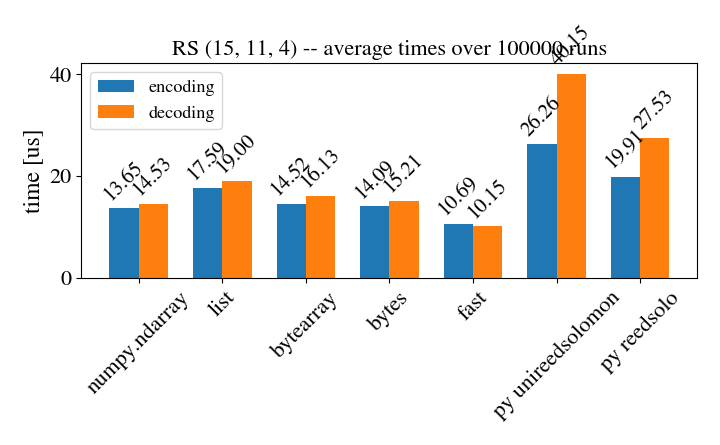
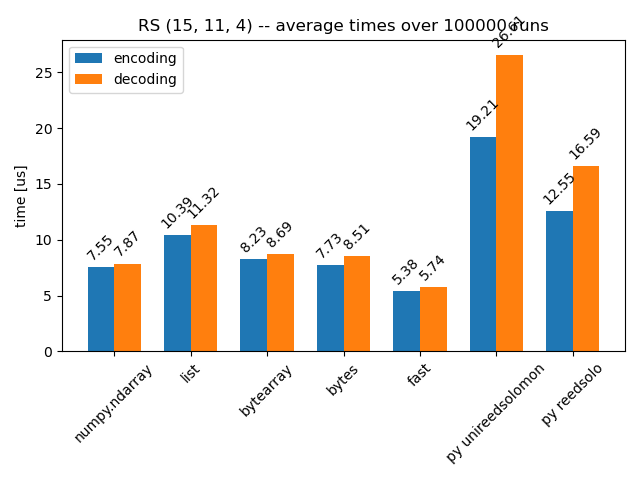
removed padding on output of short input sequences. Throw more detailed error when librs.so not found. Benchmark naming updated

Changed region(s): [[0.0, 0.0292, 0.9688, 0.964], [0.7188, 0.2045, 0.7812, 0.3506]]

diff --git a/test/bench.py b/test/bench.py
@@ -2,8 +2,8 @@
 #   Creation date    : Wed Jan 20 18:06:12 2021 (+1100)
 #   Email            : edwin.g.w.petersatgmail.com
 # ------------------------------------------------------------------------------
-# Last-Updated       : Fri Jan 29 16:21:52 2021 (+1100)
-#           By       : Edwin G. W. Peters @ epeters
+# Last-Updated       : Fri Jan 29 19:55:30 2021 (+1100)
+#           By       : Edwin G.W. Peters @ mugpahug-pc
 # ------------------------------------------------------------------------------
 # File Name          : bench.py
 # Description        : 
@@ -92,8 +92,9 @@ for rs_p in rs_params:
     dtypes = [np.ndarray, list,bytearray, bytes]
 
 
-    print(f'RS ({total_len}, {msg_len}, {sym_size}) -- encoding and decoding {N_TESTS} runs')
+    print(f'RS ({total_len}, {msg_len}, {sym_size}) -- encoding and decoding {N_TESTS} runs\n')
 
+    print('| test name | encoding | decoding | num errors|\n| :------- | -------: | ------: | :----: |')
 
     for dtype in dtypes:
         # bench:
@@ -132,7 +133,8 @@ for rs_p in rs_params:
         test_names.append(str(dtype)[8:-2])
         encoding_times.append((t_e1-t_b1)/N_TESTS*1000000)
         decoding_times.append((t_e2-t_b2)/N_TESTS*1000000)
-        print(f'dtype {str(dtype)[8:-2]:15} -- encoding time {t_e1-t_b1:.3f} s {(t_e1-t_b1)/N_TESTS*1000:.3f} ms each - decoding time {t_e2-t_b2:.3f} s {(t_e2-t_b2)/N_TESTS*1000:.3f} ms each - num_errors: {np.sum(n_errors<0)}')
+        print(f'| pyreedsolomon {str(dtype)[8:-2]:15} | {t_e1-t_b1:.3f} s {(t_e1-t_b1)/N_TESTS*1000:.3f} ms each | {t_e2-t_b2:.3f} s {(t_e2-t_b2)/N_TESTS*1000:.3f} ms each | {np.sum(n_errors<0)} |')
+        # print(f'dtype {str(dtype)[8:-2]:15} -- encoding time {t_e1-t_b1:.3f} s {(t_e1-t_b1)/N_TESTS*1000:.3f} ms each - decoding time {t_e2-t_b2:.3f} s {(t_e2-t_b2)/N_TESTS*1000:.3f} ms each - num_errors: {np.sum(n_errors<0)}')
 
     # np.random.seed(seed)
     data = [np.concatenate((np.zeros(padding_symbols),np.random.randint(0,16,total_len-padding_symbols))).astype(data_dtype) for n in range(N_TESTS)]
@@ -158,7 +160,8 @@ for rs_p in rs_params:
     encoding_times.append((t_e1-t_b1)/N_TESTS*1000000)
     decoding_times.append((t_e2-t_b2)/N_TESTS*1000000)
 
-    print(f'{"fast":21} -- encoding time {t_e1-t_b1:.3f} s {(t_e1-t_b1)/N_TESTS*1000:.3f} ms each - decoding time {t_e2-t_b2:.3f} s {(t_e2-t_b2)/N_TESTS*1000:.3f} ms each - num_errors: {np.sum(n_errors2<0)}')
+    print(f'| {"pyreedsolomon fast":29} | {t_e1-t_b1:.3f} s {(t_e1-t_b1)/N_TESTS*1000:.3f} ms each | {t_e2-t_b2:.3f} s {(t_e2-t_b2)/N_TESTS*1000:.3f} ms each | {np.sum(n_errors2<0)} |')
+    # print(f'{"fast":21} -- encoding time {t_e1-t_b1:.3f} s {(t_e1-t_b1)/N_TESTS*1000:.3f} ms each - decoding time {t_e2-t_b2:.3f} s {(t_e2-t_b2)/N_TESTS*1000:.3f} ms each - num_errors: {np.sum(n_errors2<0)}')
 
 
 
@@ -197,8 +200,9 @@ for rs_p in rs_params:
         encoding_times.append((t_pe1-t_pb1)/N_TESTS*1000000)
         decoding_times.append((t_pe2-t_pb2)/N_TESTS*1000000)
 
+        print(f'| {"py unireedsolomon":29} | {t_pe1-t_pb1:.3f} s {(t_pe1-t_pb1)/N_TESTS*1000:.3f} ms each | {t_pe2-t_pb2:.3f} s {(t_pe2-t_pb2)/N_TESTS*1000:.3f} ms each | {np.sum(n_errors_py<0)} |')
 
-        print(f'{"py unireedsolomon":21} -- encoding time {t_pe1-t_pb1:.3f} s {(t_pe1-t_pb1)/N_TESTS*1000:.3f} ms each - decoding time {t_pe2-t_pe1:.3f} s {(t_pe2-t_pe1)/N_TESTS*1000:.3f} ms each - num_errors: {np.sum(n_errors_py!=0)}')
+        # print(f'{"py unireedsolomon":21} -- encoding time {t_pe1-t_pb1:.3f} s {(t_pe1-t_pb1)/N_TESTS*1000:.3f} ms each - decoding time {t_pe2-t_pe1:.3f} s {(t_pe2-t_pe1)/N_TESTS*1000:.3f} ms each - num_errors: {np.sum(n_errors_py!=0)}')
 
     ## reedsolo
     if HAS_REEDSOLO and  sym_size <= 8: # only works for symbol sizes up to 8
@@ -230,7 +234,8 @@ for rs_p in rs_params:
         decoding_times.append((t_pe2-t_pb2)/N_TESTS*1000000)
 
 
-        print(f'{"py reedsolo":21} -- encoding time {t_pe1-t_pb1:.3f} s {(t_pe1-t_pb1)/N_TESTS*1000:.3f} ms each - decoding time {t_pe2-t_pe1:.3f} s {(t_pe2-t_pe1)/N_TESTS*1000:.3f} ms each - num_errors: {np.sum(n_errors_py!=0)}')
+        print(f'| {"py reedsolo":29} | {t_pe1-t_pb1:.3f} s {(t_pe1-t_pb1)/N_TESTS*1000:.3f} ms each | {t_pe2-t_pb2:.3f} s {(t_pe2-t_pb2)/N_TESTS*1000:.3f} ms each | {np.sum(n_errors_py<0)} |')
+        # print(f'{"py reedsolo":21} -- encoding time {t_pe1-t_pb1:.3f} s {(t_pe1-t_pb1)/N_TESTS*1000:.3f} ms each - decoding time {t_pe2-t_pe1:.3f} s {(t_pe2-t_pe1)/N_TESTS*1000:.3f} ms each - num_errors: {np.sum(n_errors_py!=0)}')
 
 
 

diff --git a/pyreedsolomon/pyreedsolomon.py b/pyreedsolomon/pyreedsolomon.py
@@ -2,8 +2,8 @@
 #   Creation date    : Wed Jan 20 17:15:53 2021 (+1100)
 #   Email            : edwin.g.w.petersatgmail.com
 # ------------------------------------------------------------------------------
-# Last-Updated       : Fri Jan 29 16:23:34 2021 (+1100)
-#           By       : Edwin G. W. Peters @ epeters
+# Last-Updated       : Fri Jan 29 19:35:51 2021 (+1100)
+#           By       : Edwin G.W. Peters @ mugpahug-pc
 # ------------------------------------------------------------------------------
 # File Name          : pyreedsolomon.py
 # Description        : 
@@ -24,8 +24,10 @@ configure with prefix=/usr/lib or add default prefix to LD_LIBRARY_PATH
 import ctypes
 import numpy as np
 
-lib = ctypes.cdll.LoadLibrary('librs.so')
-
+try:
+    lib = ctypes.cdll.LoadLibrary('librs.so')
+except Exception as e:
+    raise ImportError('librs.so not found in LD_LIBRARY_PATH. Is the Reed Solomon userspace module installed?') from e
 # pointers
 c_dat_p8 =  ctypes.POINTER(ctypes.c_ubyte)
 c_dat_p16 =  ctypes.POINTER(ctypes.c_ushort)
@@ -206,13 +208,13 @@ class Reed_Solomon(object):
         self.encode_fast(self.data_buf)
 
         if d_type == np.ndarray:
-            return self.data_buf
+            return self.data_buf[-n_symbols-self.par_size:]
         elif d_type == bytes:
-            return self.data_buf.tobytes()
+            return self.data_buf[-n_symbols-self.par_size:].tobytes()
         elif d_type == bytearray:
-            return bytearray(self.data_buf.tobytes())
+            return bytearray(self.data_buf[-n_symbols-self.par_size:].tobytes())
         elif d_type == list:
-            return self.data_buf.tolist()
+            return self.data_buf[-n_symbols-self.par_size:].tolist()
 
 
     def decode(self,dat):
@@ -258,10 +260,10 @@ class Reed_Solomon(object):
         self.data_buf, n_errors = self.decode_fast(self.data_buf)
 
         if d_type == np.ndarray:
-            return self.data_buf[:self.message_size], n_errors
+            return self.data_buf[self.message_size - n_symbols + self.par_size :self.message_size], n_errors
         elif d_type == bytes:
-            return self.data_buf[:self.message_size].tobytes(), n_errors
+            return self.data_buf[self.message_size - n_symbols + self.par_size:self.message_size].tobytes(), n_errors
         elif d_type == bytearray:
-            return bytearray(self.data_buf[:self.message_size].tobytes()) , n_errors
+            return bytearray(self.data_buf[self.message_size - n_symbols + self.par_size:self.message_size].tobytes()) , n_errors
         elif d_type == list:
-            return self.data_buf[:self.message_size].tolist(), n_errors
+            return self.data_buf[self.message_size - n_symbols + self.par_size:self.message_size].tolist(), n_errors

diff --git a/setup.py b/setup.py
@@ -1,0 +1,44 @@
+# Original Author    : Edwin G. W. Peters @ epeters
+#   Creation date    : Fri Jan 29 15:19:20 2021 (+1100)
+#   Email            : edwin.peters@unsw.edu.au
+# ------------------------------------------------------------------------------
+# Last-Updated       : Fri Jan 29 16:13:59 2021 (+1100)
+#           By       : Edwin G. W. Peters @ epeters
+# ------------------------------------------------------------------------------
+# File Name          : setup.py
+# Description        : 
+# ------------------------------------------------------------------------------
+# Copyright          : Insert license
+# ------------------------------------------------------------------------------
+
+
+import setuptools
+
+with open("README.md", "r") as fh:
+    long_description = fh.read()
+
+
+setuptools.setup(
+    name='pyreedsolomon',
+    version='1.0.1',
+    packages=setuptools.find_packages(),
+    url='https://github.com/mugpahug/pyreedsolomon',
+    license='GPL3',
+    author='Edwin G. W. Peters',
+    author_email='edwin.g.w.peters@gmail.com',
+    description='Fast python interface to the linux kernel reed solomon libraries',
+    long_description=long_description,
+    long_description_content_type="text/markdown",
+    classifiers=[
+        'Development Status :: 4 - Beta',
+        'Intended Audience :: Developers',
+        'Topic :: Software Development :: Libraries',
+        'License :: OSI Approved :: GNU General Public License v3 or later (GPLv3+)',
+        'Programming Language :: Python :: 3',
+        'Programming Language :: Python :: 3.5',
+    ],
+    keywords='reed solomon reed-solomon reedsolomon forward error correction',
+    install_requires=[
+        'numpy'
+    ],
+)

diff --git a/test/demo.py b/test/demo.py
@@ -2,8 +2,8 @@
 #   Creation date    : Fri Jan 29 15:28:36 2021 (+1100)
 #   Email            : edwin.g.w.petersatgmail.com
 # ------------------------------------------------------------------------------
-# Last-Updated       : Fri Jan 29 16:22:05 2021 (+1100)
-#           By       : Edwin G. W. Peters @ epeters
+# Last-Updated       : Fri Jan 29 19:40:55 2021 (+1100)
+#           By       : Edwin G.W. Peters @ mugpahug-pc
 # ------------------------------------------------------------------------------
 # File Name          : demo.py
 # Description        : 
@@ -23,7 +23,7 @@ data = np.random.randint(0,256,150).astype(np.uint8)
 data_enc = rs_dr.encode(data)
 
 # create a few errors
-err_idx = [23,53,12,97,102, 200, 250]
+err_idx = [23,53,12,97,102]
 
 
 data_enc[err_idx] = 255

diff --git a/README.md b/README.md
@@ -3,15 +3,7 @@ A high performance Python interface to the linux kernel Reed Solomon libraries
 
 ## Requirements
 Userspace interface to the kernel Reed Solomon libraries and numpy
-Source and build instructions on [https://github.com/tierney/reed-solomon](https://github.com/tierney/reed-solomon)
-
-Recommendations for building the C-libraries:
-   
-To allow for symbol sizes larger than 8 bits uncomment in *configure.ac*:
-```
-AC_DEFINE(CONFIG_REED_SOLOMON_ENC16, 1, Reed Solomon encoding word length)
-AC_DEFINE(CONFIG_REED_SOLOMON_DEC16, 1, Reed Solomon decoding word length)
-```
+Source and build instructions on [https://github.com/CyberLeo/reed-solomon](https://github.com/CyberLeo/reed-solomon)
 
 configure with --prefix=/usr/ or add the location of *librs.so* is in your library path (*LD_LIBRARY_PATH*)
 
@@ -55,28 +47,65 @@ Input data types supported:
  * bytes
  * bytearray
 
+Test run on *Intel(R) Core(TM) i7-4790 CPU @ 3.60GHz*
+
+RS (973, 935, 10) -- encoding and decoding 1000 runs
+
+| test name | encoding | decoding | num errors|
+| :------- | -------: | ------: | :----: |
+| pyreedsolomon numpy.ndarray   | 0.065 s 0.065 ms each | 0.061 s 0.061 ms each | 0 |
+| pyreedsolomon list            | 0.114 s 0.114 ms each | 0.117 s 0.117 ms each | 0 |
+| pyreedsolomon bytearray       | 0.067 s 0.067 ms each | 0.060 s 0.060 ms each | 0 |
+| pyreedsolomon bytes           | 0.063 s 0.063 ms each | 0.060 s 0.060 ms each | 0 |
+| pyreedsolomon fast            | 0.064 s 0.064 ms each | 0.056 s 0.056 ms each | 0 |
+| py unireedsolomon             | 8.828 s 8.828 ms each | 6.830 s 6.830 ms each | 0 |
+
+RS (255, 223, 8) -- encoding and decoding 10000 runs
+
+| test name | encoding | decoding | num errors|
+| :------- | -------: | ------: | :----: |
+| pyreedsolomon numpy.ndarray   | 0.189 s 0.019 ms each | 0.200 s 0.020 ms each | 0 |
+| pyreedsolomon list            | 0.339 s 0.034 ms each | 0.385 s 0.038 ms each | 0 |
+| pyreedsolomon bytearray       | 0.201 s 0.020 ms each | 0.231 s 0.023 ms each | 0 |
+| pyreedsolomon bytes           | 0.190 s 0.019 ms each | 0.225 s 0.023 ms each | 0 |
+| pyreedsolomon fast            | 0.166 s 0.017 ms each | 0.196 s 0.020 ms each | 0 |
+| py unireedsolomon             | 12.233 s 1.223 ms each | 12.556 s 1.256 ms each | 0 |
+| py reedsolo                   | 9.292 s 0.929 ms each | 16.142 s 1.614 ms each | 0 |
+
+RS (15, 11, 4) -- encoding and decoding 100000 runs
+
+| test name | encoding | decoding | num errors|
+| :------- | -------: | ------: | :----: |
+| pyreedsolomon numpy.ndarray   | 0.755 s 0.008 ms each | 0.787 s 0.008 ms each | 0 |
+| pyreedsolomon list            | 1.039 s 0.010 ms each | 1.132 s 0.011 ms each | 0 |
+| pyreedsolomon bytearray       | 0.823 s 0.008 ms each | 0.869 s 0.009 ms each | 0 |
+| pyreedsolomon bytes           | 0.773 s 0.008 ms each | 0.851 s 0.009 ms each | 0 |
+| pyreedsolomon fast            | 0.538 s 0.005 ms each | 0.574 s 0.006 ms each | 0 |
+| py unireedsolomon             | 1.921 s 0.019 ms each | 2.661 s 0.027 ms each | 0 |
+| py reedsolo                   | 1.255 s 0.013 ms each | 1.659 s 0.017 ms each | 0 |
+
 Test run on *Intel(R) Core(TM) i7-3770 CPU @ 3.40GHz*
 
 RS (973, 935, 10) -- encoding and decoding 1000 runs
 
 | test name | encoding | decoding |num errors|
 | :-------- | -------: | -------: | :------: |
-|dtype numpy.ndarray   | 0.081 s 0.081 ms each | 0.077 s 0.077 ms each | 0 | 
-|dtype list            | 0.173 s 0.173 ms each | 0.147 s 0.147 ms each | 0 |
-|dtype bytearray       | 0.082 s 0.082 ms each | 0.079 s 0.079 ms each | 0 |
-|dtype bytes           | 0.080 s 0.080 ms each | 0.078 s 0.078 ms each | 0 |
-|fast                  | 0.076 s 0.076 ms each | 0.073 s 0.073 ms each | 0 |
+|pyreedsolomon numpy.ndarray   | 0.081 s 0.081 ms each | 0.077 s 0.077 ms each | 0 | 
+|pyreedsolomon list            | 0.173 s 0.173 ms each | 0.147 s 0.147 ms each | 0 |
+|pyreedsolomon bytearray       | 0.082 s 0.082 ms each | 0.079 s 0.079 ms each | 0 |
+|pyreedsolomon bytes           | 0.080 s 0.080 ms each | 0.078 s 0.078 ms each | 0 |
+|pyreedsolomon fast                  | 0.076 s 0.076 ms each | 0.073 s 0.073 ms each | 0 |
 |py unireedsolomon     | 10.175 s 10.175 ms each | 8.111 s 8.111 ms each | 0|
 
 RS (255, 223, 8) -- encoding and decoding 10000 runs
 
 | test name | encoding | decoding |num errors|
 | :-------- | -------: | -------: | :------: |
-|dtype numpy.ndarray | 0.286 s 0.029 ms each |0.319 s 0.032 ms each   | 0|
-|dtype list          | 0.475 s 0.048 ms each |0.542 s 0.054 ms each   | 0|
-|dtype bytearray     | 0.277 s 0.028 ms each |0.356 s 0.036 ms each   | 0|
-|dtype bytes         | 0.272 s 0.027 ms each |0.328 s 0.033 ms each   | 0|
-|fast                | 0.232 s 0.023 ms each |0.280 s 0.028 ms each   | 0|
+|pyreedsolomon numpy.ndarray | 0.286 s 0.029 ms each |0.319 s 0.032 ms each   | 0|
+|pyreedsolomon list          | 0.475 s 0.048 ms each |0.542 s 0.054 ms each   | 0|
+|pyreedsolomon bytearray     | 0.277 s 0.028 ms each |0.356 s 0.036 ms each   | 0|
+|pyreedsolomon bytes         | 0.272 s 0.027 ms each |0.328 s 0.033 ms each   | 0|
+|pyreedsolomon fast                | 0.232 s 0.023 ms each |0.280 s 0.028 ms each   | 0|
 |py unireedsolomon   | 13.396 s 1.340 ms each| 13.963 s 1.396 ms each | 0|
 |py reedsolo         | 12.086 s 1.209 ms each| 24.035 s 2.404 ms each | 0|
 
@@ -84,14 +113,13 @@ RS (15, 11, 4) -- encoding and decoding 100000 runs
 
 | test name | encoding | decoding |num errors|
 | :-------- | -------: | -------: | :------: |
-|dtype numpy.ndarray  | 1.365 s 0.014 ms each | 1.453 s 0.015 ms each | 0|
-|dtype list           | 1.759 s 0.018 ms each | 1.900 s 0.019 ms each | 0|
-|dtype bytearray      | 1.452 s 0.015 ms each | 1.613 s 0.016 ms each | 0|
-|dtype bytes          | 1.409 s 0.014 ms each | 1.521 s 0.015 ms each | 0|
-|fast                 | 1.069 s 0.011 ms each | 1.015 s 0.010 ms each | 0|
+|pyreedsolomon numpy.ndarray  | 1.365 s 0.014 ms each | 1.453 s 0.015 ms each | 0|
+|pyreedsolomon list           | 1.759 s 0.018 ms each | 1.900 s 0.019 ms each | 0|
+|pyreedsolomon bytearray      | 1.452 s 0.015 ms each | 1.613 s 0.016 ms each | 0|
+|pyreedsolomon bytes          | 1.409 s 0.014 ms each | 1.521 s 0.015 ms each | 0|
+|pyreedsolomon fast                 | 1.069 s 0.011 ms each | 1.015 s 0.010 ms each | 0|
 |py unireedsolomon    | 2.626 s 0.026 ms each | 4.015 s 0.040 ms each | 0|
 |py reedsolo          | 1.991 s 0.020 ms each | 2.753 s 0.028 ms each | 0|
-
 
 
 ![image](benchmark_results/rs15_11_4.png)
